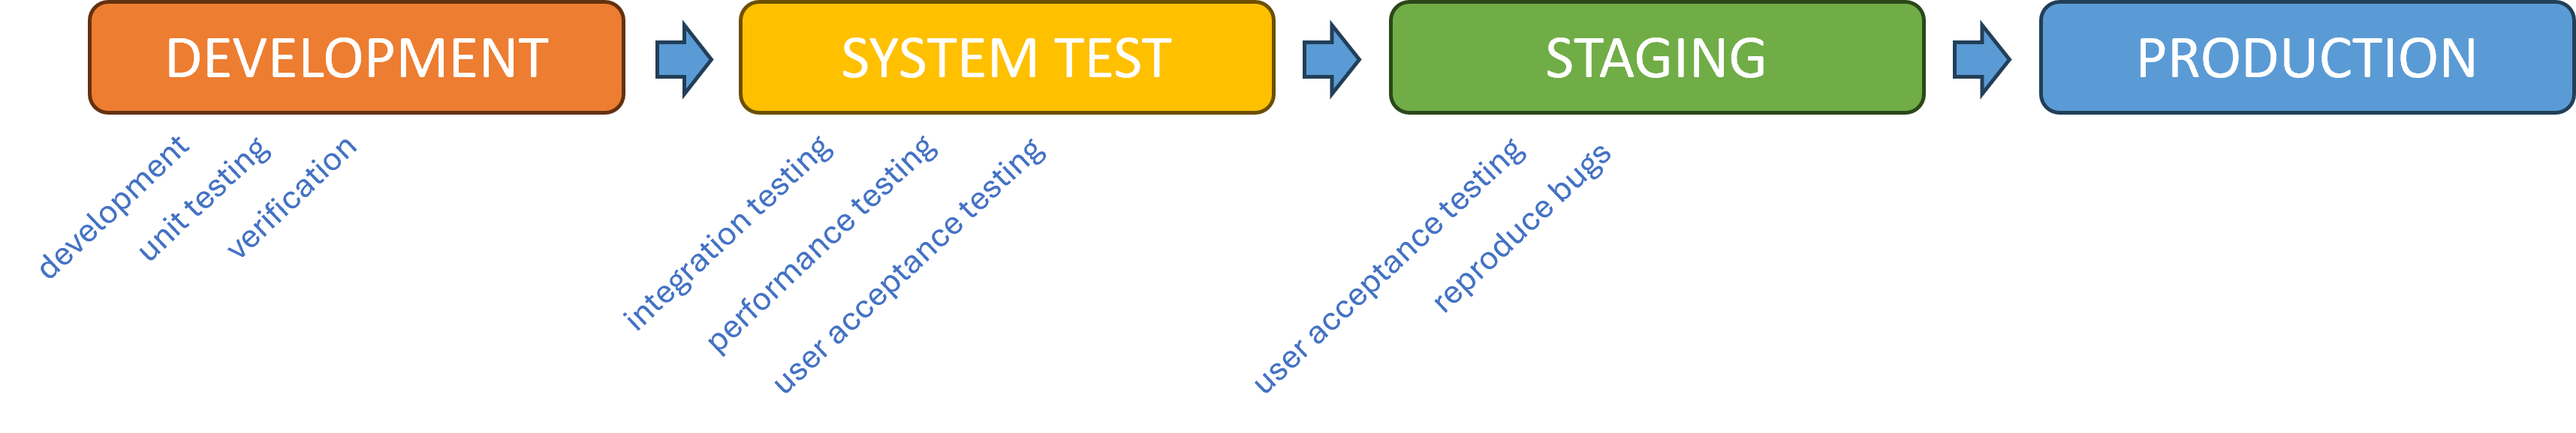
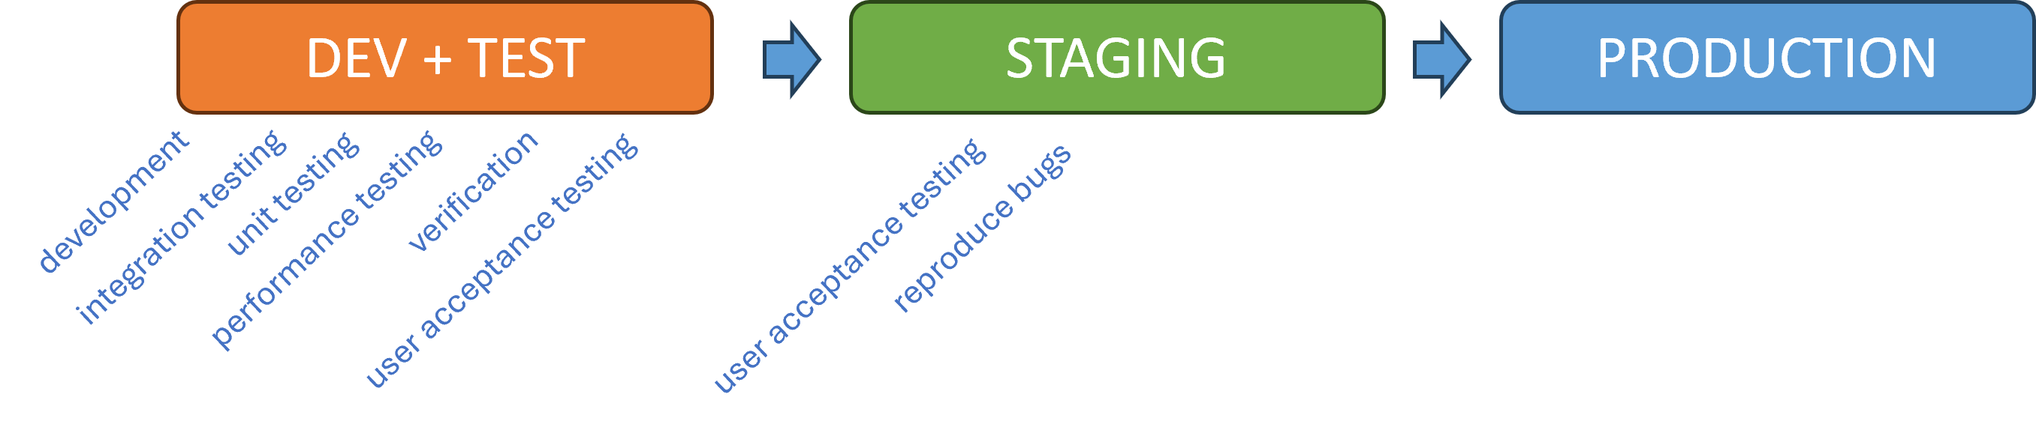
Simplify today.

diff --git a/content/engineering-practices-sdlc-improvements.md b/content/engineering-practices-sdlc-improvements.md
@@ -14,7 +14,7 @@ We want to "_Unite people, process, and products to empower and enable us to del
 
 > ![Today's SDLC](../images/engineering-practices-sdlc-improvements-1.png) 
 
-As illustrated, our current software development lifecycle (SDLC) flow involves four main environments – sometimes fewer, sometimes more, but this is the usual pattern. Development, unit testing, and verification are performed in the **development** environment, integration testing, performance testing, and user acceptance testing are conducted in the **system test** environment, additional user acceptance testing and ad-hoc bug analysis are carried out in **Staging**, and we are all familiar with what happens in **Production**.  
+As illustrated, our current software development lifecycle (SDLC) flow involves four main environments – sometimes fewer, sometimes more, but this is the usual pattern. Development, unit testing, and verification are performed in the **dev/test** environment, integration testing, performance testing, and user acceptance testing are conducted in the **dev/test** environment, additional user acceptance testing and ad-hoc bug analysis are carried out in **Staging**, and we are all familiar with what happens in **Production**.  
 
 ### Advantages
 
